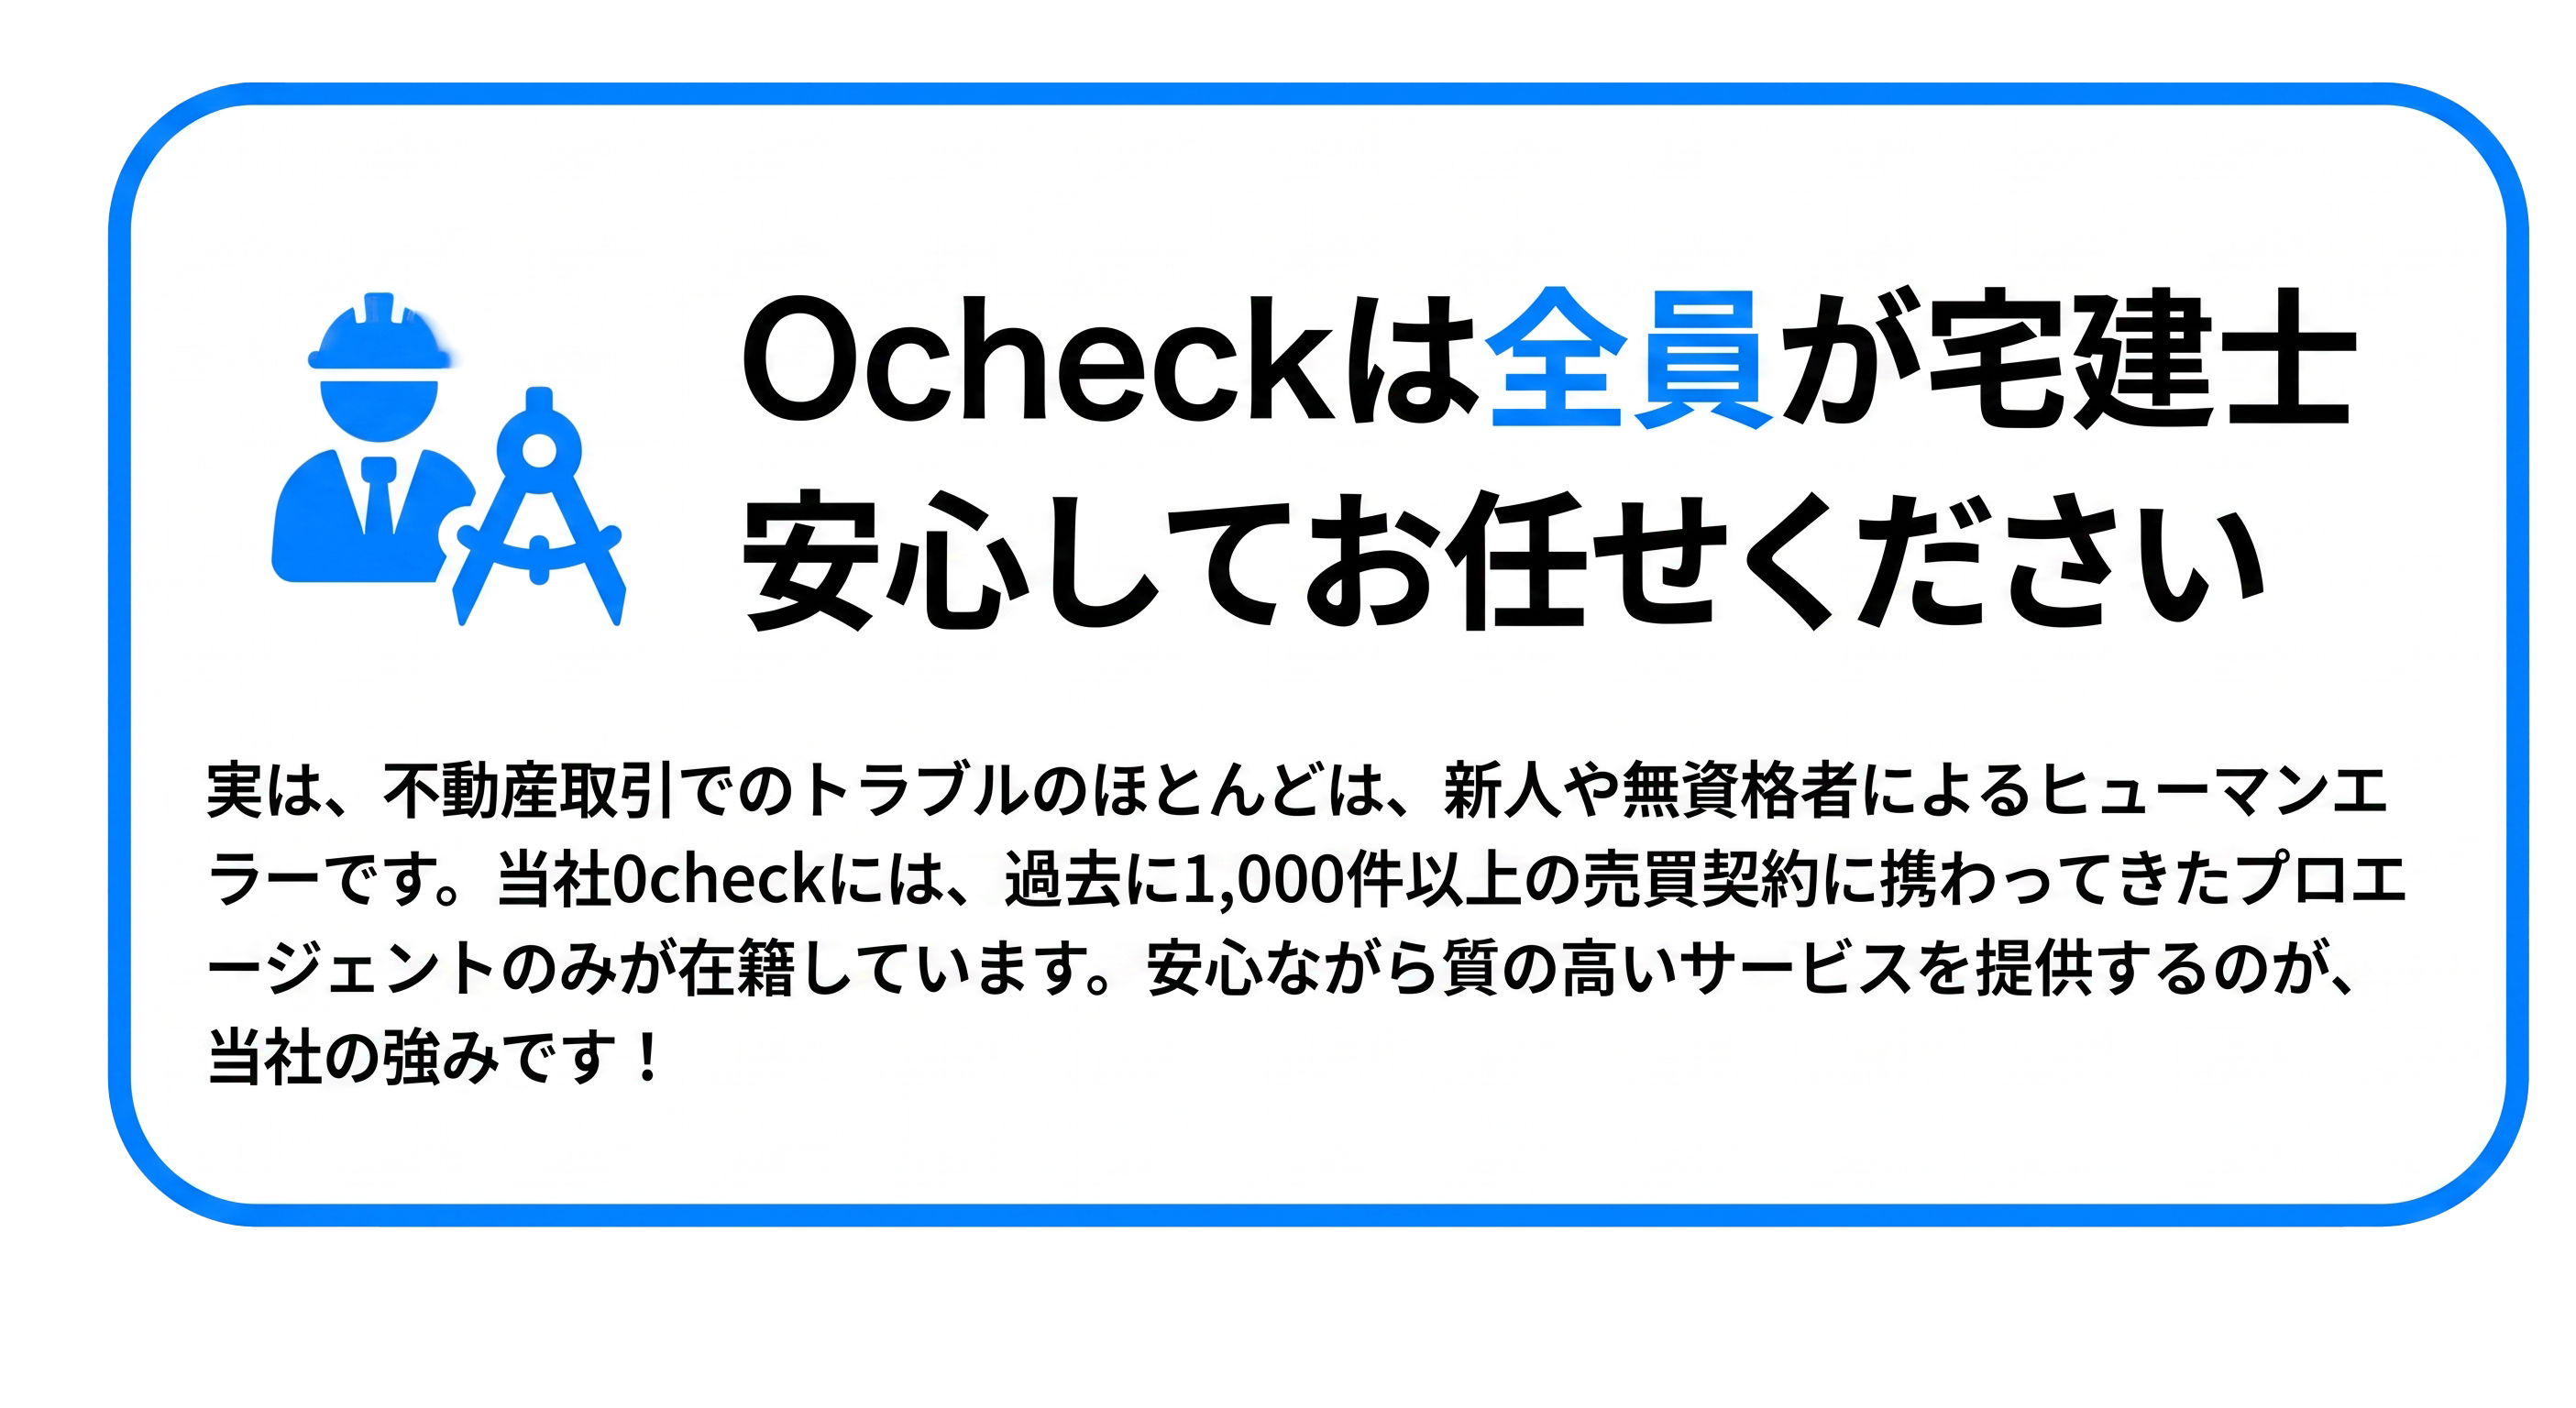
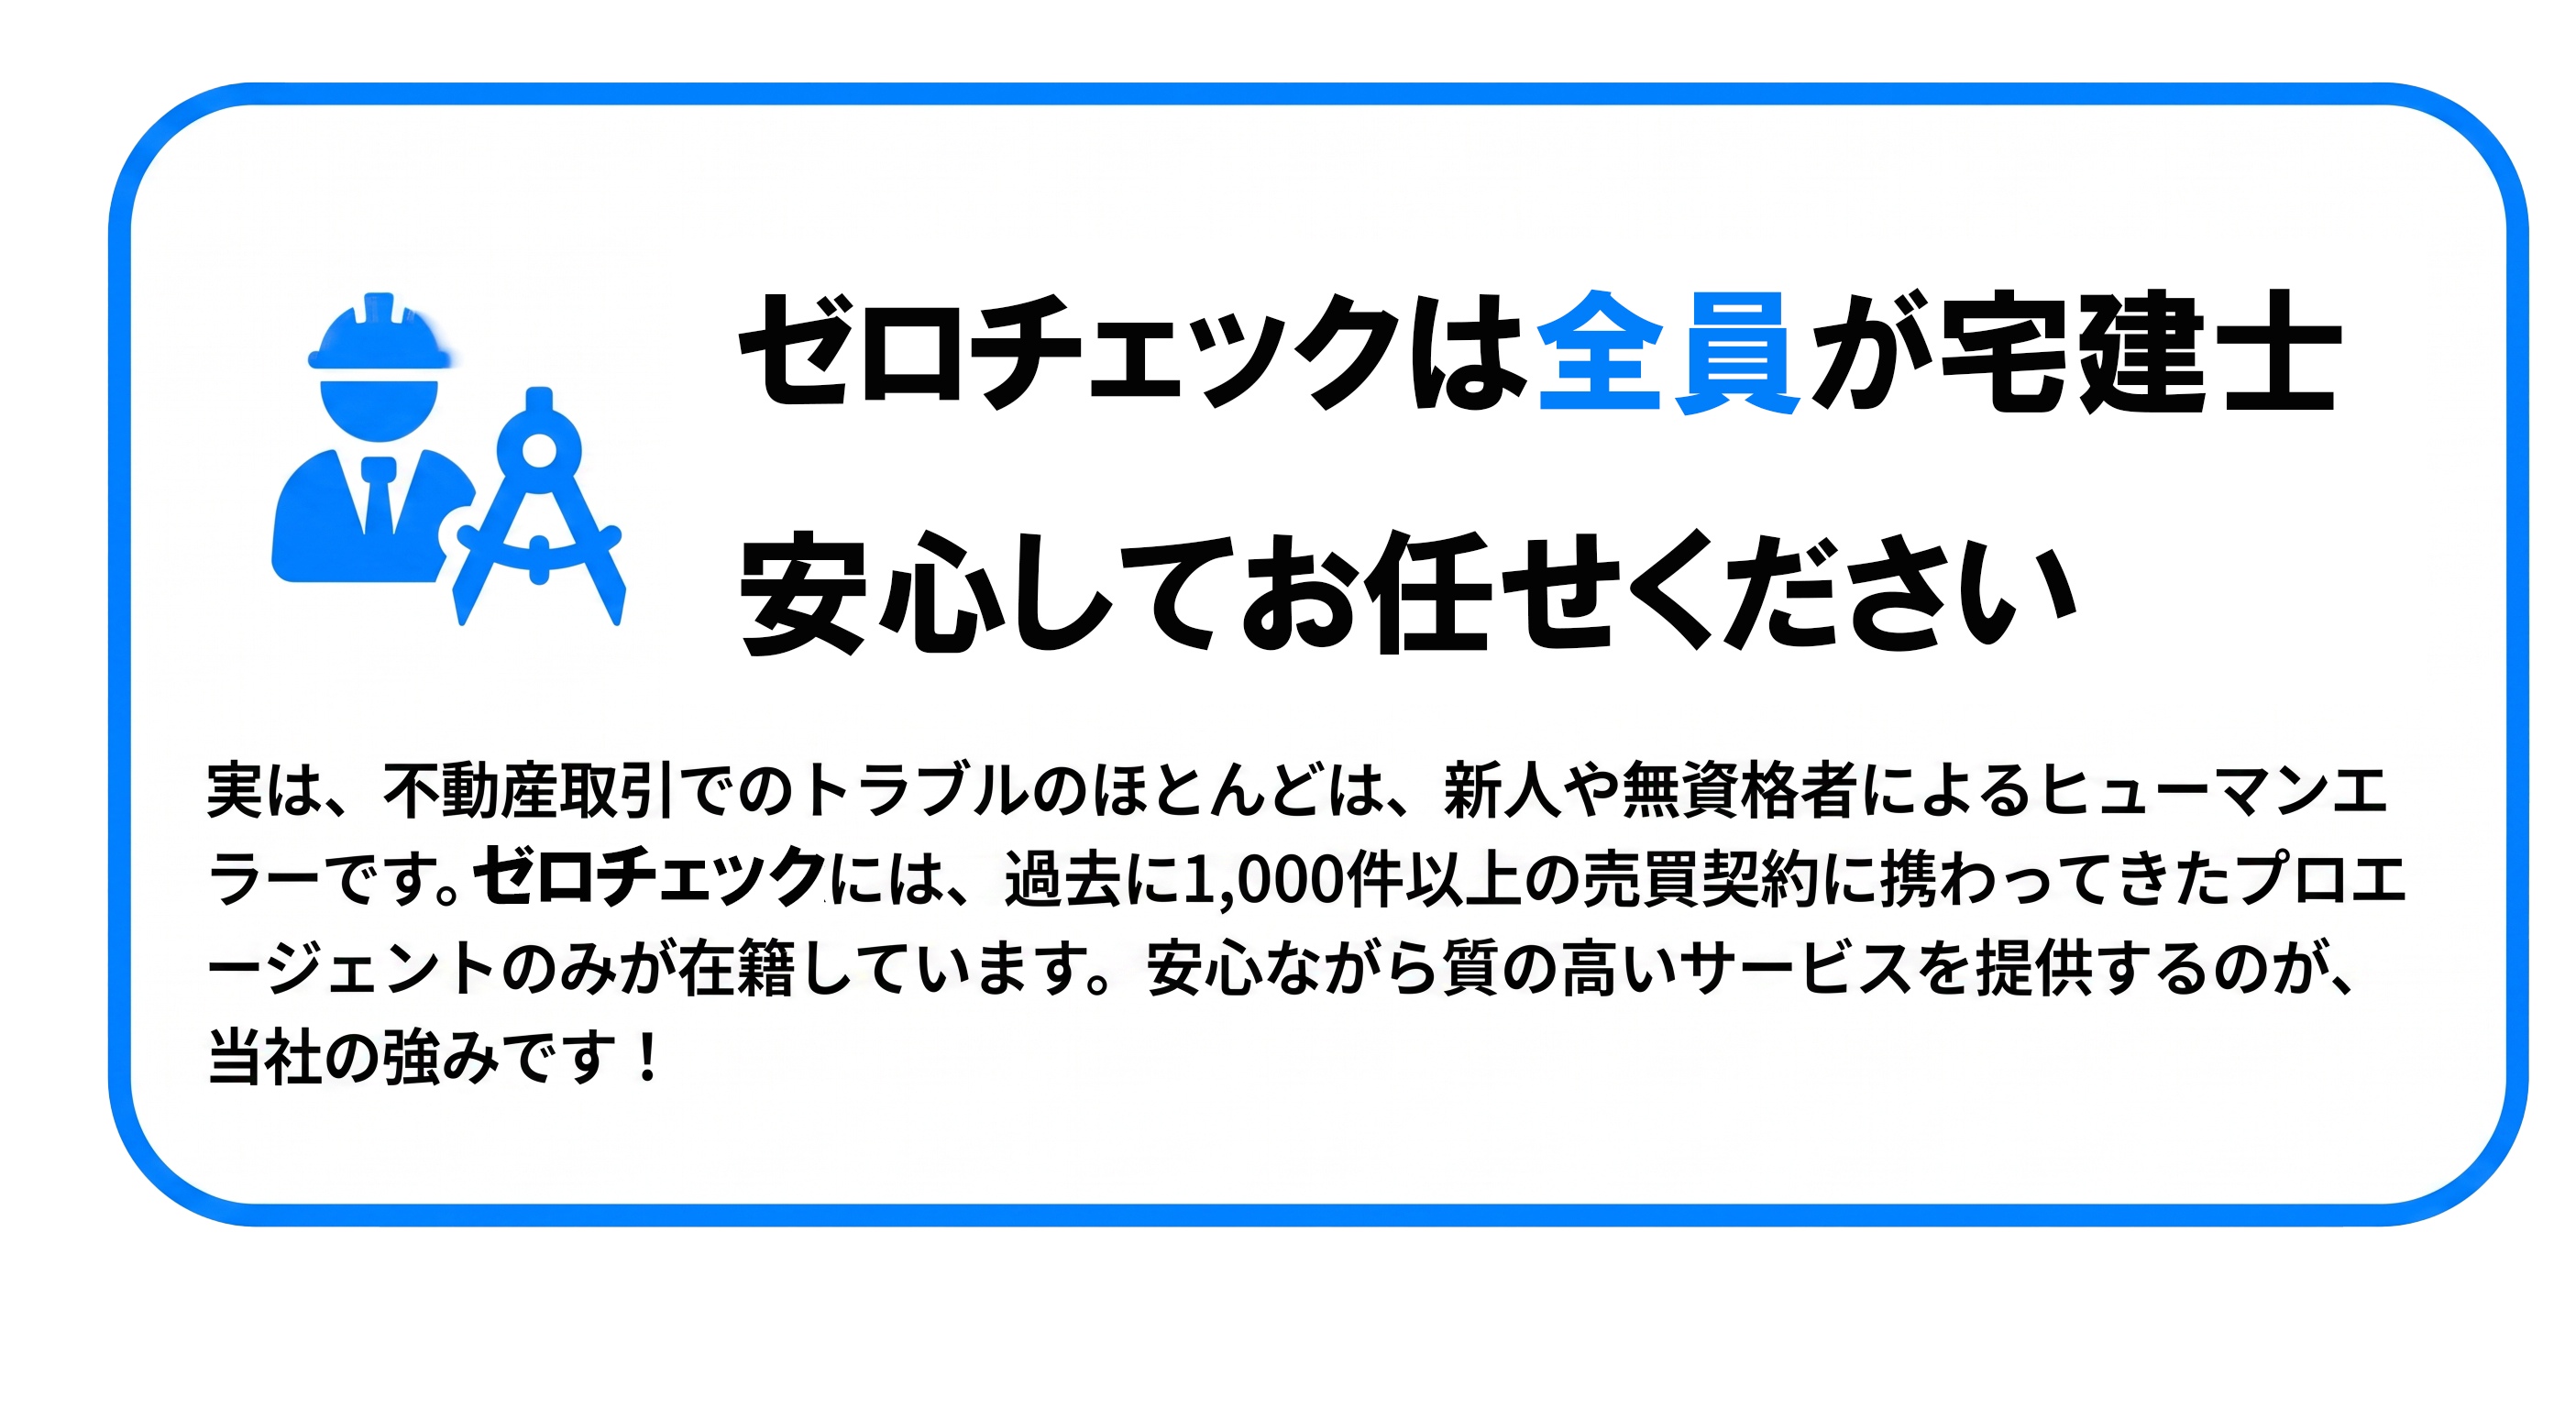
画像ファイル差し替え

Changed region(s): [[0.2786, 0.3438, 0.8979, 0.4688], [0.2786, 0.1875, 0.9288, 0.3125], [0.1858, 0.5938, 0.3406, 0.6562]]

diff --git a/index.html b/index.html
@@ -83,8 +83,8 @@
 
     /* CTA pulse */
     @keyframes pulse-glow {
-      0%, 100% { box-shadow: 0 0 0 0 rgba(0, 127, 255, 0.5); }
-      50% { box-shadow: 0 0 0 12px rgba(0, 127, 255, 0); }
+      0%, 100% { box-shadow: 0 0 0 0 rgba(239, 68, 68, 0.5); }
+      50% { box-shadow: 0 0 0 12px rgba(239, 68, 68, 0); }
     }
     .cta-pulse {
       animation: pulse-glow 2.5s ease-in-out infinite;
@@ -171,8 +171,9 @@
           <div class="mt-5 flex flex-col gap-3">
             <div class="text-center text-brand.orange font-extrabold text-sm">＼ 仲介手数料0円か今すぐわかります！ ／</div>
             <a href="#form"
-              class="cta-pulse inline-flex items-center justify-center rounded-2xl bg-brand.green px-6 py-4 text-white font-extrabold text-lg shadow-soft hover:bg-brand.green2 transition">
-              まずは無料で相談する
+              class="cta-pulse inline-flex items-center justify-center gap-2 rounded-2xl bg-red-500 px-6 py-4 text-white font-extrabold text-lg shadow-soft hover:bg-red-600 transition">
+              <svg class="w-5 h-5" fill="none" stroke="currentColor" stroke-width="2" viewBox="0 0 24 24"><path stroke-linecap="round" stroke-linejoin="round" d="M21.75 6.75v10.5a2.25 2.25 0 01-2.25 2.25h-15a2.25 2.25 0 01-2.25-2.25V6.75m19.5 0A2.25 2.25 0 0019.5 4.5h-15a2.25 2.25 0 00-2.25 2.25m19.5 0l-9.75 6.093L2.25 6.75"/></svg>
+              お問い合わせ
             </a>
             <div class="text-center text-xs text-gray-500">※しつこい営業はしません</div>
           </div>
@@ -211,8 +212,9 @@
       <div class="mt-10 text-center">
         <div class="text-brand.green font-extrabold">不動産購入はゼロチェックが断然お得です！</div>
         <a href="#form"
-          class="mt-4 inline-flex items-center justify-center rounded-2xl bg-brand.green px-8 py-4 text-white font-extrabold text-lg shadow-soft hover:bg-brand.green2 transition">
-          無料で相談する
+          class="mt-4 inline-flex items-center justify-center gap-2 rounded-2xl bg-red-500 px-8 py-4 text-white font-extrabold text-lg shadow-soft hover:bg-red-600 transition">
+          <svg class="w-5 h-5" fill="none" stroke="currentColor" stroke-width="2" viewBox="0 0 24 24"><path stroke-linecap="round" stroke-linejoin="round" d="M21.75 6.75v10.5a2.25 2.25 0 01-2.25 2.25h-15a2.25 2.25 0 01-2.25-2.25V6.75m19.5 0A2.25 2.25 0 0019.5 4.5h-15a2.25 2.25 0 00-2.25 2.25m19.5 0l-9.75 6.093L2.25 6.75"/></svg>
+          お問い合わせ
         </a>
       </div>
     </div>
@@ -245,8 +247,9 @@
 
       <div class="mt-10 text-center">
         <a href="#form"
-          class="inline-flex items-center justify-center rounded-2xl bg-brand.green px-8 py-4 text-white font-extrabold text-lg shadow-soft hover:bg-brand.green2 transition">
-          無料で相談する
+          class="inline-flex items-center justify-center gap-2 rounded-2xl bg-red-500 px-8 py-4 text-white font-extrabold text-lg shadow-soft hover:bg-red-600 transition">
+          <svg class="w-5 h-5" fill="none" stroke="currentColor" stroke-width="2" viewBox="0 0 24 24"><path stroke-linecap="round" stroke-linejoin="round" d="M21.75 6.75v10.5a2.25 2.25 0 01-2.25 2.25h-15a2.25 2.25 0 01-2.25-2.25V6.75m19.5 0A2.25 2.25 0 0019.5 4.5h-15a2.25 2.25 0 00-2.25 2.25m19.5 0l-9.75 6.093L2.25 6.75"/></svg>
+          お問い合わせ
         </a>
       </div>
     </div>
@@ -303,8 +306,9 @@
 
       <div class="mt-10 text-center">
         <a href="#form"
-          class="inline-flex items-center justify-center rounded-2xl bg-brand.green px-8 py-4 text-white font-extrabold text-lg shadow-soft hover:bg-brand.green2 transition">
-          まずは無料で相談する
+          class="inline-flex items-center justify-center gap-2 rounded-2xl bg-red-500 px-8 py-4 text-white font-extrabold text-lg shadow-soft hover:bg-red-600 transition">
+          <svg class="w-5 h-5" fill="none" stroke="currentColor" stroke-width="2" viewBox="0 0 24 24"><path stroke-linecap="round" stroke-linejoin="round" d="M21.75 6.75v10.5a2.25 2.25 0 01-2.25 2.25h-15a2.25 2.25 0 01-2.25-2.25V6.75m19.5 0A2.25 2.25 0 0019.5 4.5h-15a2.25 2.25 0 00-2.25 2.25m19.5 0l-9.75 6.093L2.25 6.75"/></svg>
+          お問い合わせ
         </a>
       </div>
     </div>
@@ -363,6 +367,14 @@
           </summary>
           <p class="mt-4 text-gray-700 pl-10">現在は首都圏を中心に対応しています。エリア外の場合もご相談ください。</p>
         </details>
+        <details class="rounded-3xl bg-white border border-brand.line shadow-soft p-6 group">
+          <summary class="flex items-center gap-3 cursor-pointer font-semibold list-none">
+            <span
+              class="inline-flex h-7 w-7 items-center justify-center rounded-full bg-brand.green text-white font-bold text-sm flex-shrink-0">Q</span>
+            賃貸も取り扱っていますか？
+          </summary>
+          <p class="mt-4 text-gray-700 pl-10">申し訳ございません。当社は不動産の<span class="font-bold">売買専門</span>のため、賃貸のお取り扱いはしておりません。物件の購入・売却に関するご相談はお気軽にお問い合わせください。</p>
+        </details>
       </div>
     </div>
   </section>
@@ -372,11 +384,34 @@
     <div class="max-w-2xl mx-auto px-4 py-14">
       <h2 class="text-center text-2xl font-extrabold fade-up">無料相談フォーム</h2>
       <p class="mt-2 text-center text-gray-600">まずは気軽にご連絡ください</p>
+      <div class="mt-4 rounded-2xl bg-amber-50 border border-amber-300 px-4 py-3 text-sm text-amber-800 text-center">
+        ※当社は<span class="font-bold">売買専門</span>の不動産会社です。賃貸のお取り扱いはしておりませんのでご了承ください。
+      </div>
 
-      <form id="contact-form" class="mt-10 space-y-5" action="https://formspree.io/f/xykljvak" method="POST">
+      <form id="contact-form" class="mt-8 space-y-5" action="https://formspree.io/f/xykljvak" method="POST">
         <input type="hidden" name="_subject" value="【ゼロチェック】新しいお問い合わせ" />
         <input type="hidden" name="_next" value="https://zero-check.jp/thanks.html" />
         <input type="text" name="_gotcha" style="display:none" />
+        <div>
+          <label class="block text-sm font-semibold mb-2">お問い合わせ種別 <span class="text-red-500">*</span></label>
+          <div class="flex gap-4">
+            <label class="flex items-center gap-2 cursor-pointer">
+              <input type="radio" name="type" value="購入" required class="w-4 h-4 accent-blue-500" checked />
+              <span class="text-sm font-medium">購入</span>
+            </label>
+            <label class="flex items-center gap-2 cursor-pointer">
+              <input type="radio" name="type" value="売却" class="w-4 h-4 accent-blue-500" />
+              <span class="text-sm font-medium">売却</span>
+            </label>
+            <label class="flex items-center gap-2 cursor-pointer">
+              <input type="radio" name="type" value="賃貸" class="w-4 h-4 accent-blue-500" id="rental-radio" />
+              <span class="text-sm font-medium">賃貸</span>
+            </label>
+          </div>
+          <div id="rental-warning" class="hidden mt-2 rounded-xl bg-red-50 border border-red-300 px-3 py-2 text-sm text-red-700">
+            申し訳ございません。当社では賃貸のお取り扱いはしておりません。売買に関するご相談はお気軽にどうぞ。
+          </div>
+        </div>
         <div>
           <label class="block text-sm font-semibold mb-1">お名前 <span class="text-red-500">*</span></label>
           <input type="text" name="name" required placeholder="山田 太郎"
@@ -449,8 +484,9 @@
   <div class="fixed bottom-0 left-0 right-0 z-50 md:hidden bg-white/95 backdrop-blur border-t border-brand.line px-4 py-3 shadow-[0_-4px_20px_rgba(0,0,0,0.1)]">
     <div class="flex gap-3">
       <a href="#form"
-        class="flex-1 inline-flex items-center justify-center rounded-xl bg-brand.green px-4 py-3 text-white font-bold text-sm shadow-soft hover:bg-brand.green2 transition">
-        無料で相談する
+        class="flex-1 inline-flex items-center justify-center gap-2 rounded-xl bg-red-500 px-4 py-3 text-white font-bold text-sm shadow-soft hover:bg-red-600 transition">
+        <svg class="w-4 h-4" fill="none" stroke="currentColor" stroke-width="2" viewBox="0 0 24 24"><path stroke-linecap="round" stroke-linejoin="round" d="M21.75 6.75v10.5a2.25 2.25 0 01-2.25 2.25h-15a2.25 2.25 0 01-2.25-2.25V6.75m19.5 0A2.25 2.25 0 0019.5 4.5h-15a2.25 2.25 0 00-2.25 2.25m19.5 0l-9.75 6.093L2.25 6.75"/></svg>
+        お問い合わせ
       </a>
     </div>
   </div>
@@ -469,6 +505,18 @@
     }, { threshold: 0.15 });
 
     document.querySelectorAll('.fade-up').forEach(el => observer.observe(el));
+
+    // Rental radio warning
+    document.querySelectorAll('input[name="type"]').forEach(radio => {
+      radio.addEventListener('change', () => {
+        const warning = document.getElementById('rental-warning');
+        if (radio.value === '賃貸' && radio.checked) {
+          warning.classList.remove('hidden');
+        } else {
+          warning.classList.add('hidden');
+        }
+      });
+    });
 
     // GA4 Event Tracking
     // CTA buttons (form links)